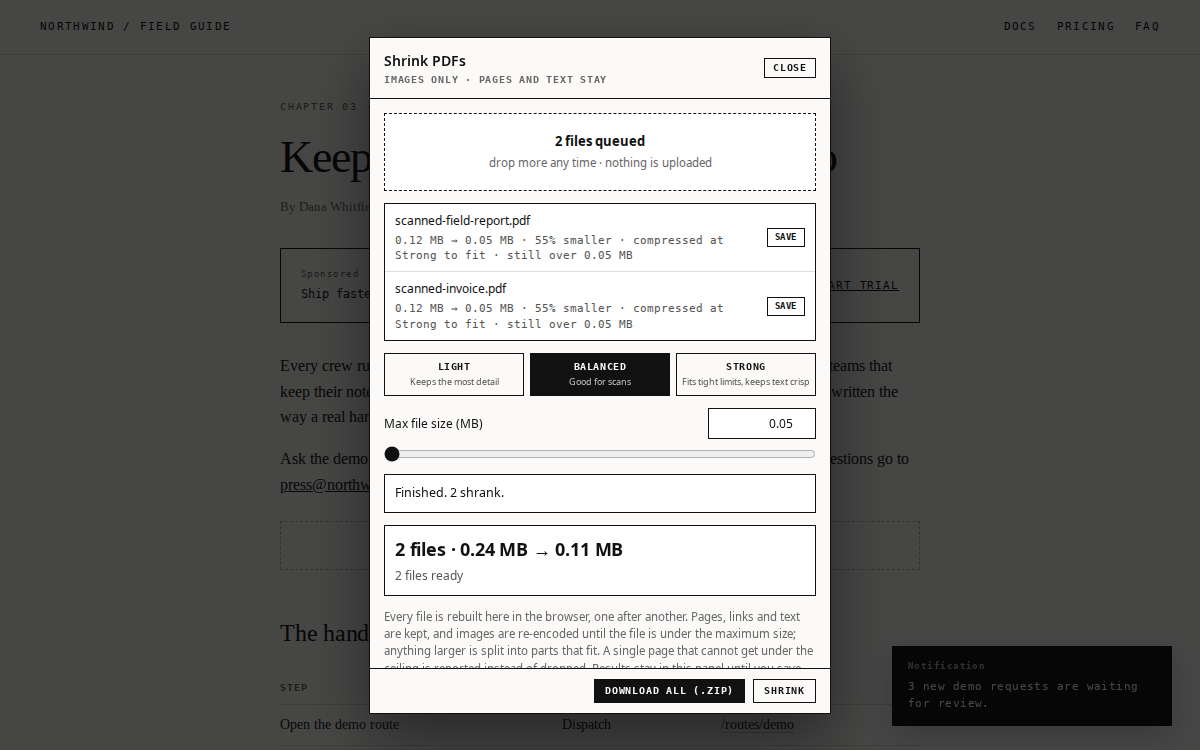
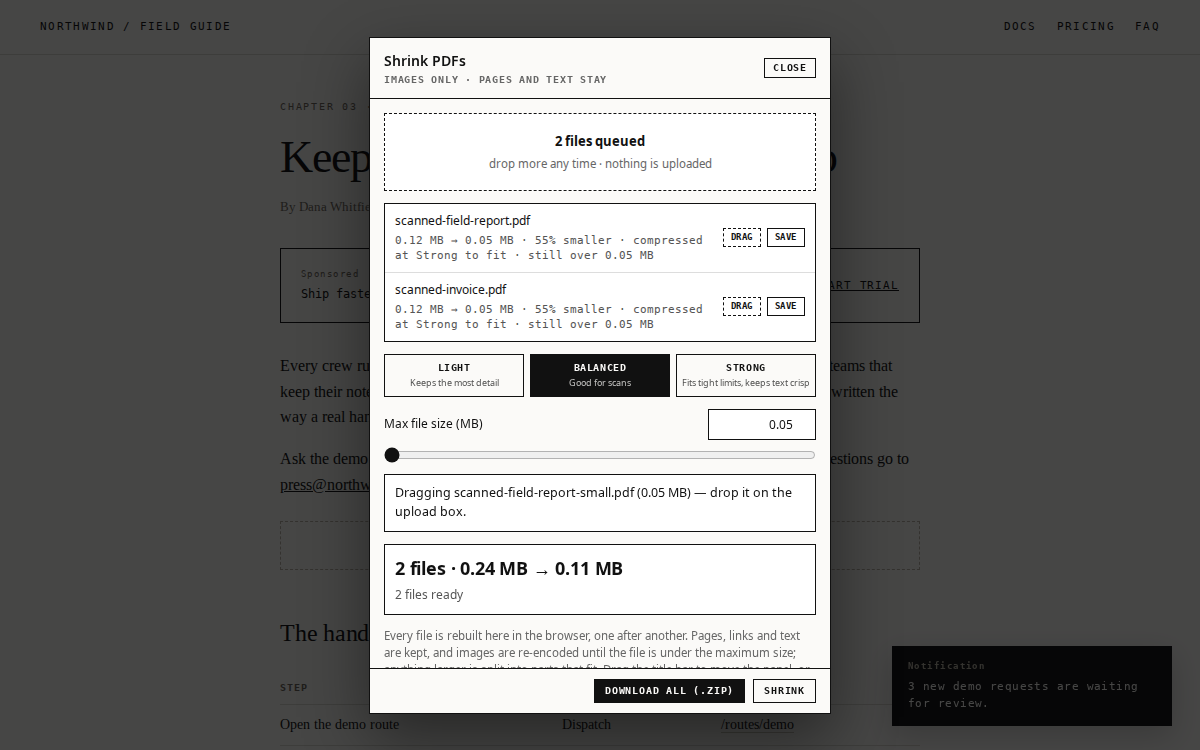
Let the Shrink PDF panel move, and let its results be dragged onto an upload box
The panel sat over the very upload box it shrinks files for, and save, find in
Downloads, re-pick was the slow part of the job. The title bar now drags the
panel (clamped so the header stays reachable), and a finished row emits
Chromium's DownloadURL drag payload so the file can be dropped where the saved
copy would have gone; split rows drag their ZIP.

🤖 Generated with Codebuff

diff --git a/bookmarklets/files/pdf-shrink.js b/bookmarklets/files/pdf-shrink.js
@@ -685,10 +685,13 @@
   const CSS = `
     .wrap { position: fixed; inset: 0; z-index: 2147483647; display: flex; align-items: center; justify-content: center;
       background: rgba(0,0,0,.72); font: 14px/1.5 system-ui, -apple-system, sans-serif; color: #111; }
-    .panel { display: flex; flex-direction: column; width: min(460px, 92vw); max-height: 90vh; background: #fbfaf8;
+    .panel { position: fixed; left: 50%; top: 50%; transform: translate(-50%, -50%); display: flex;
+      flex-direction: column; width: min(460px, 92vw); max-height: 90vh; background: #fbfaf8;
       border: 1px solid #111; box-shadow: 0 24px 60px rgba(0,0,0,.45); }
+    .panel[data-dragged] { transform: none; }
     .head { display: flex; align-items: center; justify-content: space-between; gap: 12px; padding: 12px 14px;
-      border-bottom: 1px solid #111; }
+      border-bottom: 1px solid #111; cursor: grab; touch-action: none; user-select: none; }
+    .panel.dragging .head { cursor: grabbing; }
     .title { margin: 0; font-size: 14px; font-weight: 600; }
     .meta { margin: 2px 0 0; font: 600 9.5px/1.4 ui-monospace, monospace; letter-spacing: .08em;
       text-transform: uppercase; color: #666; }
@@ -734,10 +737,15 @@
     .queue li:last-child { border-bottom: 0; }
     .queue-name { font-size: 12px; overflow: hidden; text-overflow: ellipsis; white-space: nowrap; }
     .queue-meta { grid-column: 1; font: 11px/1.4 ui-monospace, monospace; color: #555; overflow-wrap: anywhere; }
-    .queue-save { grid-row: 1 / span 2; grid-column: 2; align-self: center; padding: 4px 7px; border: 1px solid #111;
+    .queue-actions { grid-row: 1 / span 2; grid-column: 2; align-self: center; display: flex; gap: 6px; }
+    .queue-save { padding: 4px 7px; border: 1px solid #111;
       background: transparent; color: #111; font: 600 9px/1 ui-monospace, monospace; letter-spacing: .06em;
       text-transform: uppercase; cursor: pointer; }
     .queue-save:disabled { opacity: .35; cursor: default; }
+    .queue-drag { padding: 4px 7px; border: 1px dashed #111; background: transparent; color: #111;
+      font: 600 9px/1 ui-monospace, monospace; letter-spacing: .06em; text-transform: uppercase; cursor: grab; }
+    .queue-drag:active { background: #111; color: #fbfaf8; cursor: grabbing; }
+    .queue-drag[hidden] { display: none; }
   `;
 
   // Sizes are always MB, with decimals below 10 MB: upload limits are quoted
@@ -775,6 +783,60 @@
     const next = `${base}-${index}${extension}`;
     used.add(next);
     return next;
+  }
+
+  // Chromium's download-drag shape: mime, then the name, then the URL. A page
+  // cannot put a file into another site's picker, but a drag carrying this lets
+  // a finished PDF be dropped where the saved copy would have gone.
+  function downloadDragPayload(name, type, url) {
+    return `${type}:${name}:${url}`;
+  }
+
+  // A dragged panel is clamped so its header stays reachable; one dropped past
+  // an edge would be a dialog nobody can grab again.
+  function clampOrigin(x, y, size, viewport, margin = 8) {
+    const maxLeft = Math.max(margin, viewport.width - size.width - margin);
+    const maxTop = Math.max(margin, viewport.height - 120);
+    return {
+      left: Math.min(Math.max(x, margin), maxLeft),
+      top: Math.min(Math.max(y, margin), maxTop),
+    };
+  }
+
+  function attachDragging(panel, head) {
+    let drag = null;
+    const onMove = (event) => {
+      if (!drag || event.pointerId !== drag.id) return;
+      const rect = panel.getBoundingClientRect();
+      const origin = clampOrigin(event.clientX - drag.dx, event.clientY - drag.dy, rect, {
+        width: window.innerWidth,
+        height: window.innerHeight,
+      });
+      panel.style.left = `${origin.left}px`;
+      panel.style.top = `${origin.top}px`;
+      event.preventDefault();
+    };
+    const onUp = (event) => {
+      if (!drag || event.pointerId !== drag.id) return;
+      drag = null;
+      panel.classList.remove("dragging");
+      window.removeEventListener("pointermove", onMove, true);
+      window.removeEventListener("pointerup", onUp, true);
+      window.removeEventListener("pointercancel", onUp, true);
+    };
+    head.addEventListener("pointerdown", (event) => {
+      if (event.button !== 0 || (event.target instanceof Element && event.target.closest("button, input, a"))) return;
+      const rect = panel.getBoundingClientRect();
+      drag = { id: event.pointerId, dx: event.clientX - rect.left, dy: event.clientY - rect.top };
+      panel.dataset.dragged = "";
+      panel.style.left = `${rect.left}px`;
+      panel.style.top = `${rect.top}px`;
+      panel.classList.add("dragging");
+      event.preventDefault();
+      window.addEventListener("pointermove", onMove, true);
+      window.addEventListener("pointerup", onUp, true);
+      window.addEventListener("pointercancel", onUp, true);
+    });
   }
 
   function open() {
@@ -831,7 +893,7 @@
     const status = make("p", { class: "status" }, "Ready. Pick one or more PDFs, then press Shrink.");
     const result = make("div", { class: "result" });
     result.hidden = true;
-    const hint = make("p", { class: "hint" }, "Every file is rebuilt here in the browser, one after another. Pages, links and text are kept, and images are re-encoded until the file is under the maximum size; anything larger is split into parts that fit. A single page that cannot get under the ceiling is reported instead of dropped. Results stay in this panel until you save them.");
+    const hint = make("p", { class: "hint" }, "Every file is rebuilt here in the browser, one after another. Pages, links and text are kept, and images are re-encoded until the file is under the maximum size; anything larger is split into parts that fit. Drag the title bar to move the panel, or drag a finished row onto an upload box that accepts drops (Chromium) instead of saving it first.");
 
     const queue = make("ul", { class: "queue", "aria-label": "Files to shrink", "data-queue": "" });
     body.append(drop, queue, presets, maxBlock, status, result, hint);
@@ -846,6 +908,7 @@
     panel.append(head, body, foot);
     wrap.append(panel);
     root.append(wrap);
+    attachDragging(panel, head);
 
     const close = () => {
       window.removeEventListener("keydown", onKey, true);
@@ -888,20 +951,45 @@
       setStatus(`Saved ${filename} (${mb(bytes.length)}).`);
     }
 
+    // What a row would hand over: the PDF itself, or the archive when the file
+    // had to be split, so a drag carries the same thing Save would write.
+    function dragFileFor(item) {
+      if (!item.result.length) return null;
+      if (item.result.length === 1) return { name: item.result[0].name, type: "application/pdf", bytes: item.result[0].bytes };
+      return { name: `${baseName(item.file.name)}-parts.zip`, type: "application/zip", bytes: zipStore(item.result) };
+    }
+
     function rowFor(file) {
       const row = make("li");
       const name = make("span", { class: "queue-name" }, file.name);
       const meta = make("span", { class: "queue-meta" }, `${mb(file.size)} · queued`);
+      const actions = make("div", { class: "queue-actions" });
       const save = make("button", { class: "queue-save", type: "button", "data-save": "" }, "Save");
       save.disabled = true;
       save.hidden = true;
-      const item = { file, status: "queued", result: [], meta, save };
+      const drag = make("span", { class: "queue-drag", draggable: "true", "data-drag": "", title: "Drag this straight onto an upload box" }, "Drag");
+      drag.hidden = true;
+      const item = { file, status: "queued", result: [], meta, save, drag };
       save.addEventListener("click", () => {
         if (!item.result.length) return;
         if (item.result.length === 1) saveBytes(item.result[0].bytes, item.result[0].name);
         else saveBytes(zipStore(item.result), `${baseName(item.file.name)}-parts.zip`);
       });
-      row.append(name, meta, save);
+      drag.addEventListener("dragstart", (event) => {
+        const payload = dragFileFor(item);
+        if (!payload || !event.dataTransfer) {
+          event.preventDefault();
+          return;
+        }
+        const url = URL.createObjectURL(new Blob([payload.bytes], { type: payload.type }));
+        setTimeout(() => URL.revokeObjectURL(url), 120000);
+        event.dataTransfer.effectAllowed = "copy";
+        event.dataTransfer.setData("DownloadURL", downloadDragPayload(payload.name, payload.type, url));
+        event.dataTransfer.setData("text/plain", payload.name);
+        setStatus(`Dragging ${payload.name} (${mb(payload.bytes.length)}) — drop it on the upload box.`);
+      });
+      actions.append(drag, save);
+      row.append(name, meta, actions);
       queue.append(row);
       return item;
     }
@@ -1003,6 +1091,7 @@
         item.status = "done";
         item.save.hidden = false;
         item.save.disabled = false;
+        item.drag.hidden = false;
       } catch (error) {
         item.status = "error";
         item.meta.textContent = (MESSAGES[error?.message] || String(error?.message || error)).slice(0, 90);
@@ -1055,6 +1144,7 @@
     globalThis.__BL_TEST__.pdfShrink = {
       isPdf, scanObjects, serializePdf, imageKind, replaceImageDict, presetFor, countPages, dictEnd,
       pageTree, subsetFor, splitParts, crc32, zipStore, shrinkPdf, splitPdf, readPdf, uniqueName, ladderFrom,
+      downloadDragPayload, clampOrigin,
     };
   } else if (document?.body) {
     open();

diff --git a/README.md b/README.md
@@ -131,7 +131,9 @@ The PDF writer uses the Helvetica family, Latin-1 text, the DOCX page size and m
 
 **🗜 Shrink PDF** makes a scan-heavy PDF smaller without turning it into a pile of pictures. It reads the file, re-encodes the images it can safely touch, and rebuilds the PDF around them: every page, every link and the whole text layer stay where they were.
 
-**Drop several files at once** and they queue. Each file is rebuilt in turn, its row reports what happened (`0.12 MB → 0.06 MB · 48% smaller`, `no gain`, or the reason it failed), and **Download all (.zip)** returns one archive — a browser blocks the second download a page starts, so separate files would silently stop after the first. **Save** on a row downloads just that file, split parts keep their page ranges in their names, and two files with the same name get distinct entries rather than overwriting each other.
+**Drag the title bar** to move the panel off whatever it is covering; it stops at the window edge so its header stays reachable. A finished row carries a **Drag** handle that hands Chromium a download drag (`DownloadURL`) rather than a filename, so the result can be dropped straight onto an upload box that accepts file drops and the save-then-find-then-upload round trip disappears. Where a target refuses drops, **Save** still writes the file.
+
+**Drop several files at once** and they queue. Each file is rebuilt in turn, its row reports what happened (`0.12 MB → 0.06 MB · 48% smaller`, `no gain`, or the reason it failed), and **Download all (.zip)** returns one archive — a browser blocks the second download a page starts, so separate files would silently stop after the first. **Save** on a row downloads just that file, split parts keep their page ranges in their names, and two files with the same name get distinct entries rather than overwriting each other. Dragging a row that was split carries the ZIP, so the drag and the save hand over the same thing.
 
 The images are the weight in a scan. Each JPEG is decoded, drawn at a smaller size or a lower quality, and written back as a JPEG; raw Flate bitmaps go through a canvas and come out as JPEGs too. Light keeps pages up to 2400px, Balanced uses 1800px at JPEG quality 0.7, and Strong holds 1800px but drops quality to 0.62. Resolution is what keeps small print legible, so Strong spends its savings on compression instead of shrinking the page. An image is only replaced when the new stream is genuinely smaller, so a file that is already tight comes back with no change and no download. Grey pages stay grey, because colour costs bytes and adds nothing to a scanned form.
 

diff --git a/TODO.md b/TODO.md
@@ -64,6 +64,8 @@
 - [ ] CCITT and JBIG2 scans are skipped, so fax-compressed scans gain nothing; handling them (or saying so in the panel) is still open.
 - [x] **Sizes in MB only**, two decimals under 10 MB, and the split ceiling defaults to 20 MB. A single-part result is still rejected when it would not be smaller.
 - [x] **Batch queue**: the picker and drop zone take several PDFs, each gets a row with its own outcome and **Save**, files are rebuilt one at a time, and **Download all (.zip)** returns one archive. Same-named files are disambiguated inside it.
+- [x] **Movable panel and draggable results**: the title bar drags the panel, clamped to the window so the header stays reachable; a finished row's **Drag** handle writes Chromium's `DownloadURL` (`mime:name:blob:`) so the file can be dropped onto an upload box without being saved first. A split row drags its ZIP. The capture checks both: a synthetic pointer drag moves the panel and a second one returns it, and the handle emits `application/pdf:<name>-small.pdf:blob:`.
+- [ ] Dragging into a *different* page's file input has only been driven with synthetic events, because a headless capture cannot perform a cross-window native drag. Check it by hand in Chrome against a real upload form.
 - [x] **Split parts under (MB)**: pages are packed in page-tree order, each part is rebuilt from only the objects its pages can reach, and the parts arrive in one stored ZIP. A page too heavy for the target is flagged instead of dropped. A 6.88 MB three-page scan at 300 KB became a 175 KB part plus a 1.25 MB single page marked over the limit.
 - [x] The `pdftotext` mismatch was a real bug: a stream with an indirect `/Length` was trimmed at its last line break, corrupting embedded fonts (poppler said "Bad dynamic code table"). Lengths are resolved from the length object now; rendered pages hash identically and text matches exactly.
 - [ ] Widen the corpus past 30 files, especially JBIG2/CCITT scans, PDFs over 40 MB, and Word/Chrome exports with object streams.

diff --git a/HISTORY.md b/HISTORY.md
@@ -2,6 +2,23 @@
 
 What has been done, in order. Newest entries first.
 
+## 2026-11-03 — Shrink PDF: a panel you can move, results you can drag
+
+**Why**
+
+- The panel sits over the very upload box the shrink is meant for, and the last step of the job — save, find the file in Downloads, then pick it again — was the slow part.
+
+**What changed**
+
+- The panel follows its title bar: `pointerdown` on the header records the offset, `pointermove` on the window writes `left`/`top`, and `clampOrigin` keeps at least the header on screen. Nothing else in the panel starts a drag, so the close button, presets and inputs still work.
+- A finished row gained a **Drag** handle. `dragstart` writes `DownloadURL` as `mime:name:blob-url` with `effectAllowed = "copy"`, which is the shape Chromium uses for a download drag, plus `text/plain` as a name fallback. A row that was split drags its ZIP, so the drag and Save hand over the same file.
+- The blob URL is created per drag and revoked after two minutes, so a drag that is never dropped leaves nothing behind.
+
+**Verified in the capture**
+
+- A synthetic pointer drag moves the panel by (−120, −60), a second drag returns it to within 2 px, and the payload matches `application/pdf:<name>-small.pdf:blob:`.
+- The limit is honest: a headless run cannot perform a cross-window native drag, so dropping into another tab's file input is unproven there and is noted as a hand check in TODO.
+
 ## 2026-11-03 — Synthetic full-page scans at 150, 200 and 300 dpi
 
 **How they were made**
